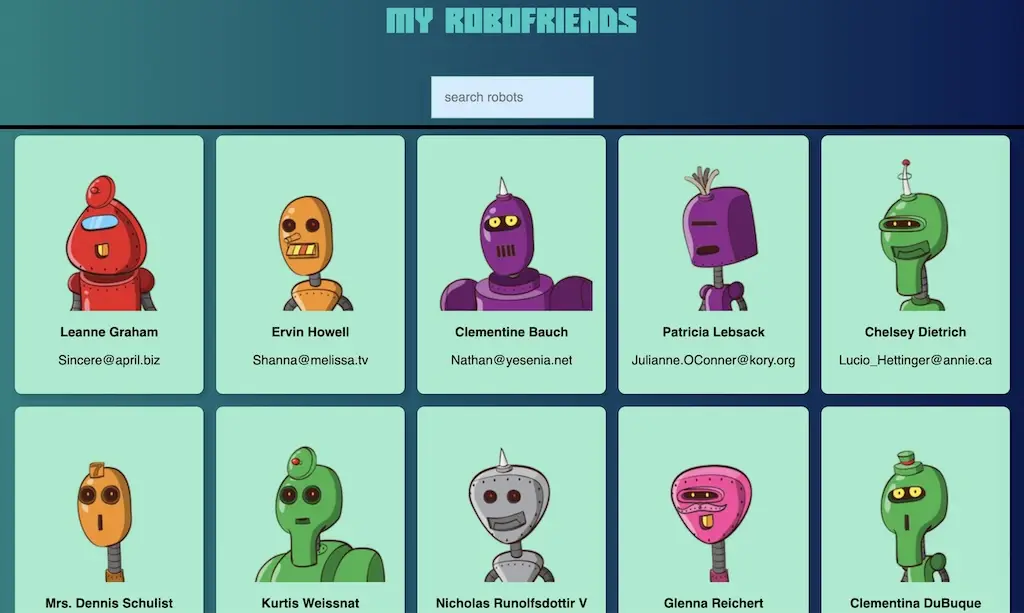
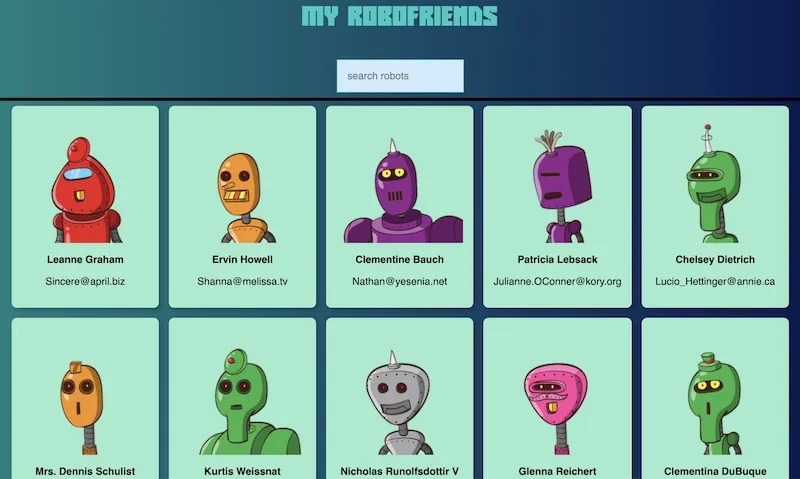
added project component

diff --git a/app/_components/ProjectList.tsx b/app/_components/ProjectList.tsx
@@ -1,8 +1,9 @@
 'use client';
 import React, { useEffect } from "react";
-import Image from "next/image";
-import Link from "next/link";
 import myProjectPhoto from '../../public/my-robofriends-screen.webp';
+import Project from "./Project";
+
+export type ProjectData = typeof projectsData[0];
 
 const ProjectList = () => {
   useEffect(() => {
@@ -16,70 +17,36 @@ const ProjectList = () => {
       <div className="container">
         <div className="project-wrapper">
           <h2 className="section-title dark-blue-text">Projects</h2>
-          {/* <!-- Notice: each .row is a project --> */}
-          <div className="row">
-            <div className="col-lg-4 col-sm-12">
-              <div className="project-wrapper__text load-hidden">
-                <h3 className="project-wrapper__text-title">
-                  My Robofriends
-                </h3>
-                <div>
-                  <p className="mb-4">
-                    An example of a modern PWA application built on React/Next.js web framework.
-                  </p>
-                  <p className="mb-4">
-
-                    Under the hood:<br />
-                    - Typescript language <br />
-                    - Unit tests (Vitest) <br />
-                    - Continious Integration (Github Actions) <br />
-                  </p>
-                </div>
-                <Link
-                  rel="noreferrer"
-                  target="_blank"
-                  className="cta-btn cta-btn--hero"
-                  href="https://mfarkha.github.io/my-robofriends/"
-                >
-                  See Live
-                </Link>
-                <Link
-                  rel="noreferrer"
-                  target="_blank"
-                  className="cta-btn text-color-main"
-                  href="https://github.com/MFarkha/my-robofriends"
-                >
-                  Source Code
-                </Link>
-              </div>
-            </div>
-            <div className="col-lg-8 col-sm-12">
-              <div className="project-wrapper__image load-hidden">
-                <Link rel="noreferrer" href="#!" target="_blank">
-                  <div
-                    data-tilt
-                    data-tilt-max="4"
-                    data-tilt-glare="true"
-                    data-tilt-max-glare="0.5"
-                    className="thumbnail rounded js-tilt"
-                  >
-                    <Image
-                      alt="Project Image"
-                      className="img-fluid"
-                      src={myProjectPhoto}
-                      width={1024}
-                      height={768}
-                    />
-                  </div>
-                </Link>
-              </div>
-            </div>
-          </div>
-          {/* <!-- /END Project --> */}
+          {
+            projectsData.map((p: ProjectData, key: number)=> {
+              return (
+                <Project {...p} key={key}/>
+              )
+            })
+          }
         </div>
       </div>
     </section>
   );
 };
+
+
+const projectsData = [
+  {
+    name: 'My Robofriends',
+    shortDesc: 'An example of a modern PWA application built on React/Next.js web framework.',
+    longDesc: (
+      <>
+        Under the hood: <br />
+          - Typescript language <br/>
+          - Unit tests (Vitest) <br />
+          - Continious Integration (Github Actions) <br />
+      </>
+    ),
+    liveView: 'https://mfarkha.github.io/my-robofriends/',
+    sourceCode: 'https://github.com/MFarkha/my-robofriends',
+    photo: myProjectPhoto,
+  },
+]
 
 export default ProjectList;

diff --git a/app/_components/Project.tsx b/app/_components/Project.tsx
@@ -1,0 +1,69 @@
+import React from "react";
+import Image from "next/image";
+import Link from "next/link";
+import { ProjectData } from "./ProjectList";
+
+type props = {
+    key: number,
+} & ProjectData
+
+const Project = (data: props) => {
+    return (
+          <div className="row">
+            <div className="col-lg-4 col-sm-12">
+              <div className="project-wrapper__text load-hidden">
+                <h3 className="project-wrapper__text-title">
+                  { data.name }
+                </h3>
+                <div>
+                  <p className="mb-4">
+                    { data.shortDesc }
+                  </p>
+                  <p className="mb-4">
+                    { data.longDesc }
+                  </p>
+                </div>
+                <Link
+                  rel="noreferrer"
+                  target="_blank"
+                  className="cta-btn cta-btn--hero"
+                  href={ data.liveView }
+                >
+                  See Live
+                </Link>
+                <Link
+                  rel="noreferrer"
+                  target="_blank"
+                  className="cta-btn text-color-main"
+                  href={ data.sourceCode }
+                >
+                  Source Code
+                </Link>
+              </div>
+            </div>
+            <div className="col-lg-8 col-sm-12">
+              <div className="project-wrapper__image load-hidden">
+                <Link rel="noreferrer" href={ data.liveView } target="_blank">
+                  <div
+                    data-tilt
+                    data-tilt-max="4"
+                    data-tilt-glare="true"
+                    data-tilt-max-glare="0.5"
+                    className="thumbnail rounded js-tilt"
+                  >
+                    <Image
+                      alt={ `Project ${data.name}` }
+                      className="img-fluid"
+                      src={data.photo}
+                      width={800} // 1024
+                      height={479} // 613
+                    />
+                  </div>
+                </Link>
+              </div>
+            </div>
+          </div>
+    )
+}
+
+export default Project;

diff --git a/app/_components/Hero.tsx b/app/_components/Hero.tsx
@@ -17,7 +17,8 @@ const Hero = () => {
       setMatches(e.matches)
     }
     mediaMatch.addEventListener('change', handler);
-    return () => mediaMatch.removeEventListener('change',handler);
+    setMatches(mediaMatch.matches)
+  return () => mediaMatch.removeEventListener('change',handler);
   }, []);
 
   return (
